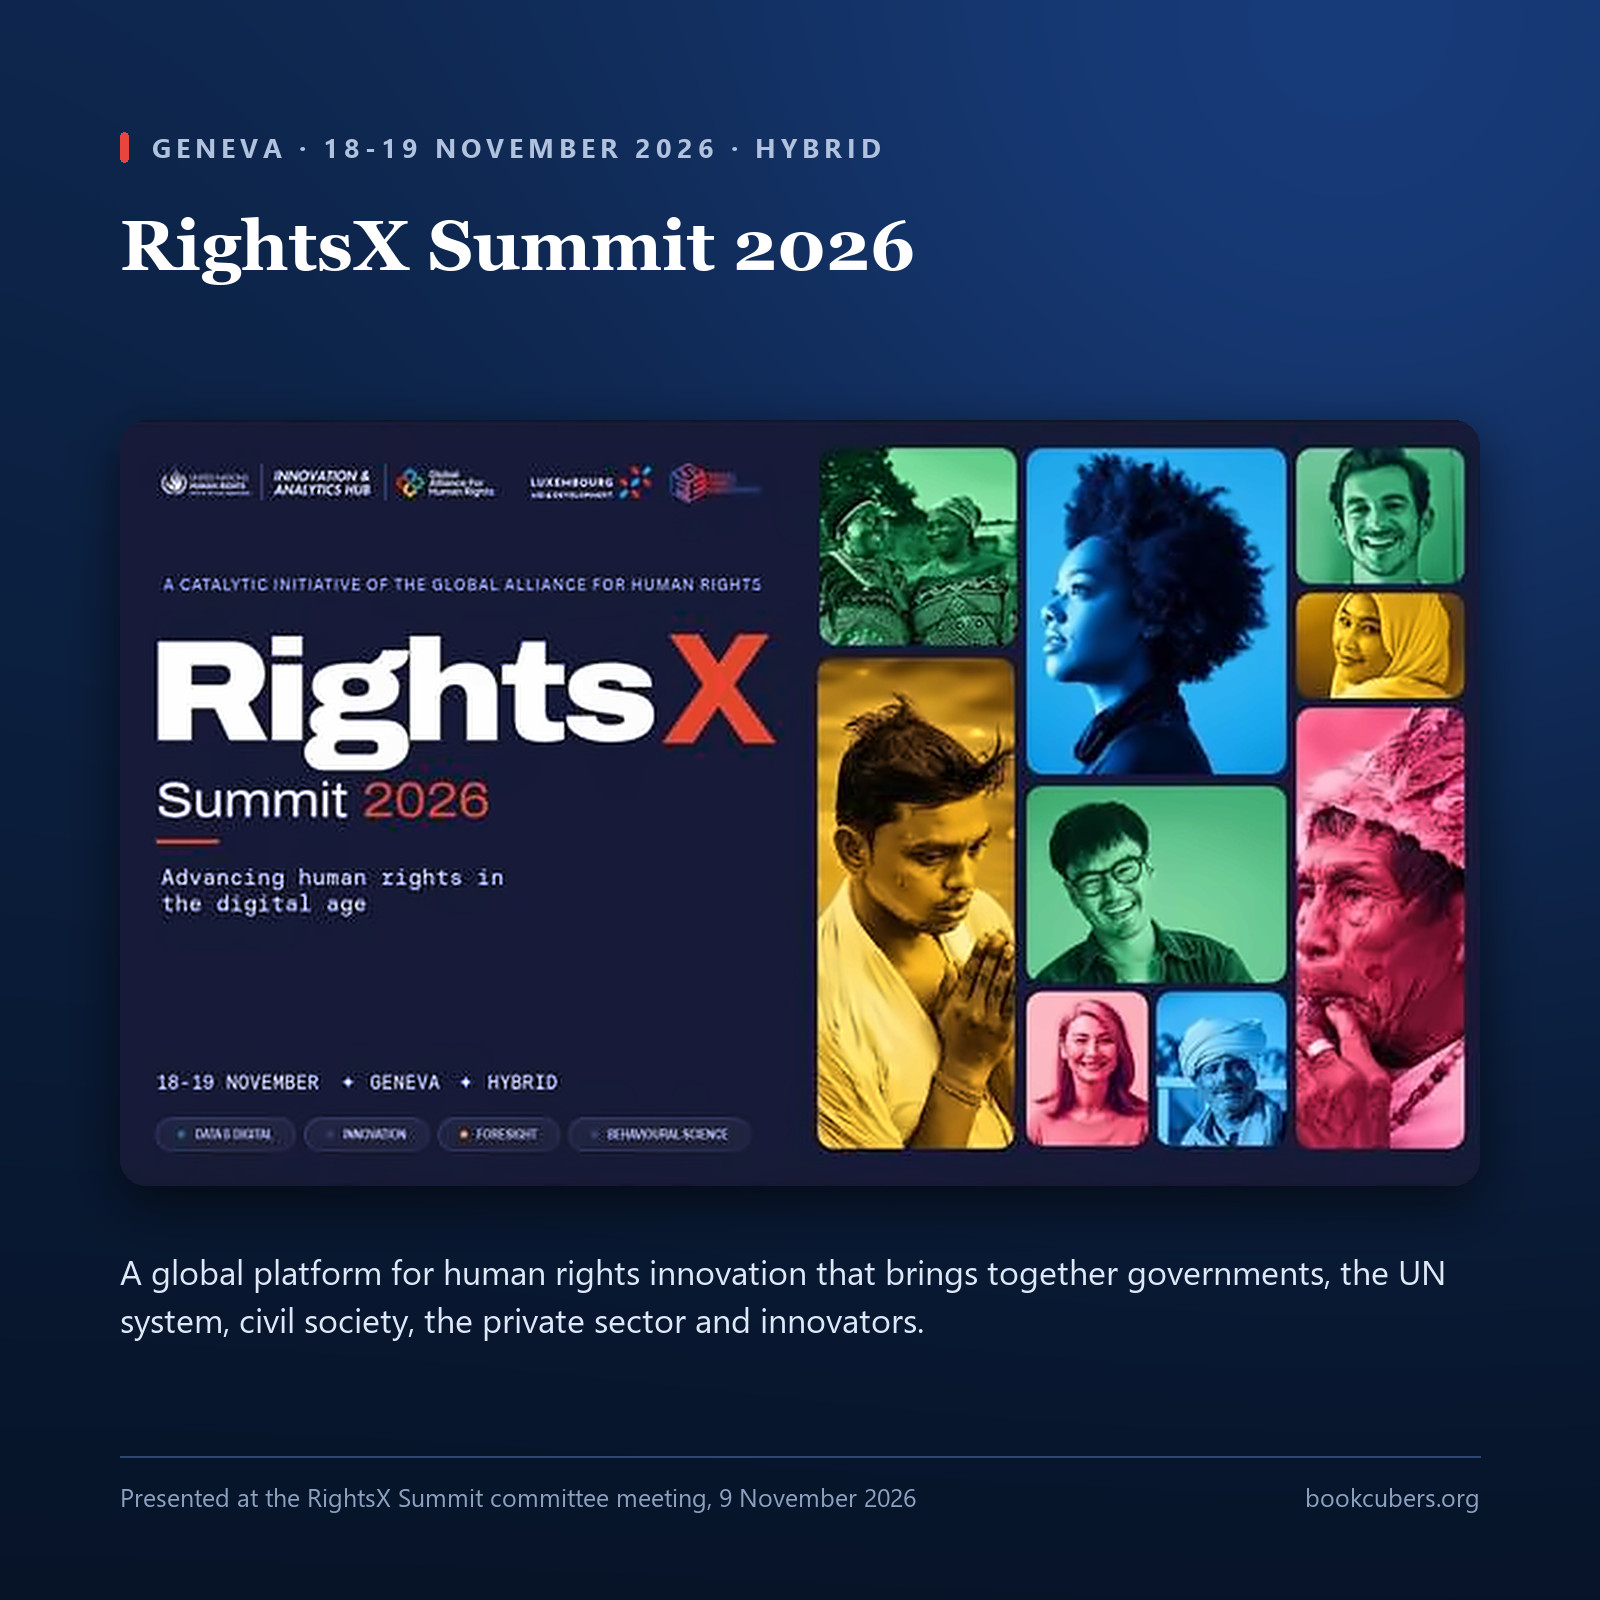
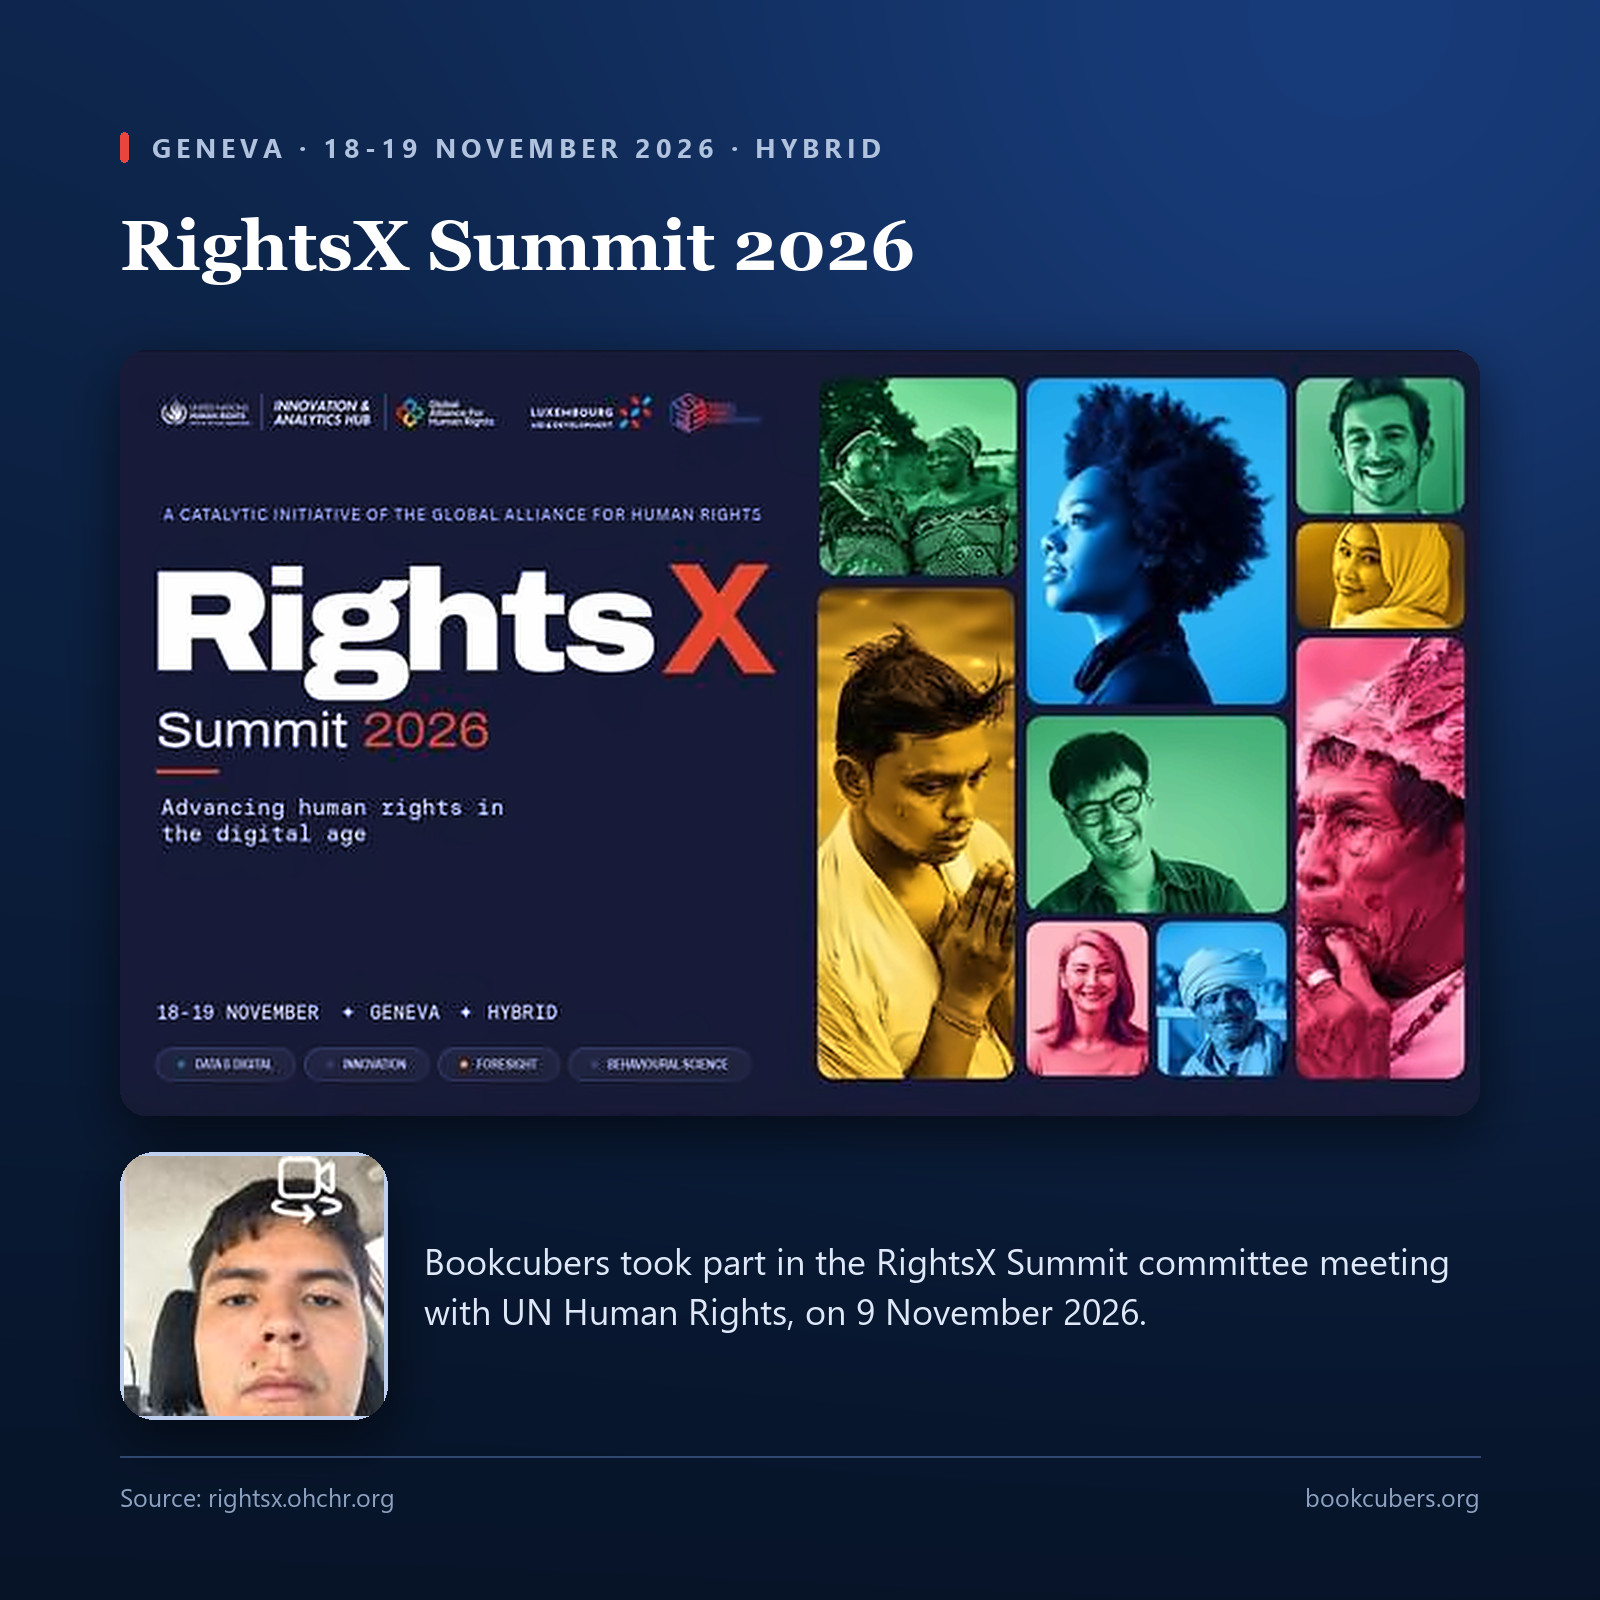
Galería: post RightsX Summit centrado en Bookcubers como ONG, con la foto de la reunión
El texto habla de la organización (colaboramos y apoyamos el Panel B); Carlos
solo aparece como quien nos representó. Portada con el recuadro de la reunión
(solo su cara, sin otros participantes) y tarjeta del Panel B actualizada.

Changed region(s): [[0.0938, 0.2188, 0.9375, 0.7188], [0.0625, 0.625, 0.9062, 0.9062]]

diff --git a/src/data/posts.ts b/src/data/posts.ts
@@ -31,12 +31,12 @@ export const galleryPosts: GalleryPost[] = [
   {
     id: "rightsx-summit-2026",
     category: "global",
-    title_en: "Carlos Olivera joins the RightsX Summit 2026 as a collaborator and will support Panel B",
-    title_es: "Carlos Olivera se suma al RightsX Summit 2026 como colaborador y apoyará el Panel B",
+    title_en: "Bookcubers will collaborate with the RightsX Summit 2026 and support Panel B",
+    title_es: "Bookcubers colaborará con el RightsX Summit 2026 y apoyará el Panel B",
     caption_en:
-      "On 9 November, our president Carlos Olivera met with UN Human Rights and the committee of the RightsX Summit 2026, which takes place on 18 and 19 November in Geneva and online. He is also being named as a collaborator of the Summit, and on Thursday 19 November he will support Panel B, \"Building the future\", with his expertise in agentic AI and civic platforms, the field behind the civic tools Bookcubers builds in Bolivia, such as JOPÓI. RightsX is a global platform for human rights innovation that brings together governments, the UN system, civil society, the private sector and innovators. The 2026 Summit, a catalytic initiative of the Global Alliance for Human Rights, runs over two days. On 18 November, an online Solutions Festival of interactive roundtables on practical challenges for human rights in the digital age, with sessions such as WITNESS on protecting rights when anything can be faked and Access Now on internet shutdowns with no end. On 19 November, a hybrid high-level day at the Palais des Nations with keynotes, panels and lightning talks. Panel B, from 11:20 to 12:30 Geneva time (6:20 to 7:30 a.m. in Bolivia), asks how data, technology and emerging capabilities can enable a future-ready human rights system, with Danielle Bell, Anwar Mahfoudh, Anita Gurumurthy, Sara Wahedi and Daniel Odongo. Programme and registration: rightsx.ohchr.org",
+      "On 9 November, we took part in a meeting with UN Human Rights and the committee of the RightsX Summit 2026, which takes place on 18 and 19 November in Geneva and online. As an NGO, we will be collaborating with the Summit, and on Thursday 19 November we will support Panel B, \"Building the future\", contributing our expertise in agentic AI and civic platforms, the field behind the civic tools we build in Bolivia, such as JOPÓI. Our president, Carlos Olivera, represented us at the meeting. RightsX is a global platform for human rights innovation that brings together governments, the UN system, civil society, the private sector and innovators. The 2026 Summit, a catalytic initiative of the Global Alliance for Human Rights, runs over two days. On 18 November, an online Solutions Festival of interactive roundtables on practical challenges for human rights in the digital age, with sessions such as WITNESS on protecting rights when anything can be faked and Access Now on internet shutdowns with no end. On 19 November, a hybrid high-level day at the Palais des Nations with keynotes, panels and lightning talks. Panel B, from 11:20 to 12:30 Geneva time (6:20 to 7:30 a.m. in Bolivia), asks how data, technology and emerging capabilities can enable a future-ready human rights system, with Danielle Bell, Anwar Mahfoudh, Anita Gurumurthy, Sara Wahedi and Daniel Odongo. Programme and registration: rightsx.ohchr.org",
     caption_es:
-      "El 9 de noviembre, nuestro presidente Carlos Olivera se reunió con Derechos Humanos de la ONU y el comité del RightsX Summit 2026, que se realiza el 18 y 19 de noviembre en Ginebra y en línea. También está siendo nombrado colaborador del Summit, y el jueves 19 de noviembre apoyará el Panel B, \"Building the future\" (Construyendo el futuro), con su experiencia en IA agéntica y plataformas cívicas, el campo detrás de las herramientas cívicas que Bookcubers construye en Bolivia, como JOPÓI. RightsX es una plataforma global para la innovación en derechos humanos que reúne a gobiernos, el sistema de la ONU, la sociedad civil, el sector privado e innovadores. El Summit 2026, una iniciativa catalizadora de la Global Alliance for Human Rights, dura dos días. El 18 de noviembre, un Solutions Festival en línea con mesas redondas interactivas sobre desafíos prácticos de los derechos humanos en la era digital, con sesiones como la de WITNESS sobre cómo proteger los derechos cuando todo puede falsificarse y la de Access Now sobre los apagones de internet que no terminan. El 19 de noviembre, una jornada de alto nivel híbrida en el Palacio de las Naciones con discursos centrales, paneles y charlas relámpago. El Panel B, de 11:20 a 12:30 hora de Ginebra (de 6:20 a 7:30 de la mañana en Bolivia), se pregunta cómo los datos, la tecnología y las capacidades emergentes pueden habilitar un sistema de derechos humanos preparado para el futuro, con Danielle Bell, Anwar Mahfoudh, Anita Gurumurthy, Sara Wahedi y Daniel Odongo. Programa e inscripción: rightsx.ohchr.org",
+      "El 9 de noviembre participamos en una reunión con Derechos Humanos de la ONU y el comité del RightsX Summit 2026, que se realiza el 18 y 19 de noviembre en Ginebra y en línea. Como ONG, vamos a colaborar con el Summit, y el jueves 19 de noviembre apoyaremos el Panel B, \"Building the future\" (Construyendo el futuro), aportando nuestra experiencia en IA agéntica y plataformas cívicas, el campo detrás de las herramientas cívicas que construimos en Bolivia, como JOPÓI. Nos representó en la reunión nuestro presidente, Carlos Olivera. RightsX es una plataforma global para la innovación en derechos humanos que reúne a gobiernos, el sistema de la ONU, la sociedad civil, el sector privado e innovadores. El Summit 2026, una iniciativa catalizadora de la Global Alliance for Human Rights, dura dos días. El 18 de noviembre, un Solutions Festival en línea con mesas redondas interactivas sobre desafíos prácticos de los derechos humanos en la era digital, con sesiones como la de WITNESS sobre cómo proteger los derechos cuando todo puede falsificarse y la de Access Now sobre los apagones de internet que no terminan. El 19 de noviembre, una jornada de alto nivel híbrida en el Palacio de las Naciones con discursos centrales, paneles y charlas relámpago. El Panel B, de 11:20 a 12:30 hora de Ginebra (de 6:20 a 7:30 de la mañana en Bolivia), se pregunta cómo los datos, la tecnología y las capacidades emergentes pueden habilitar un sistema de derechos humanos preparado para el futuro, con Danielle Bell, Anwar Mahfoudh, Anita Gurumurthy, Sara Wahedi y Daniel Odongo. Programa e inscripción: rightsx.ohchr.org",
     location_en: "RightsX Summit 2026 · Geneva and online",
     location_es: "RightsX Summit 2026 · Ginebra y en línea",
     date_en: "November 2026",
